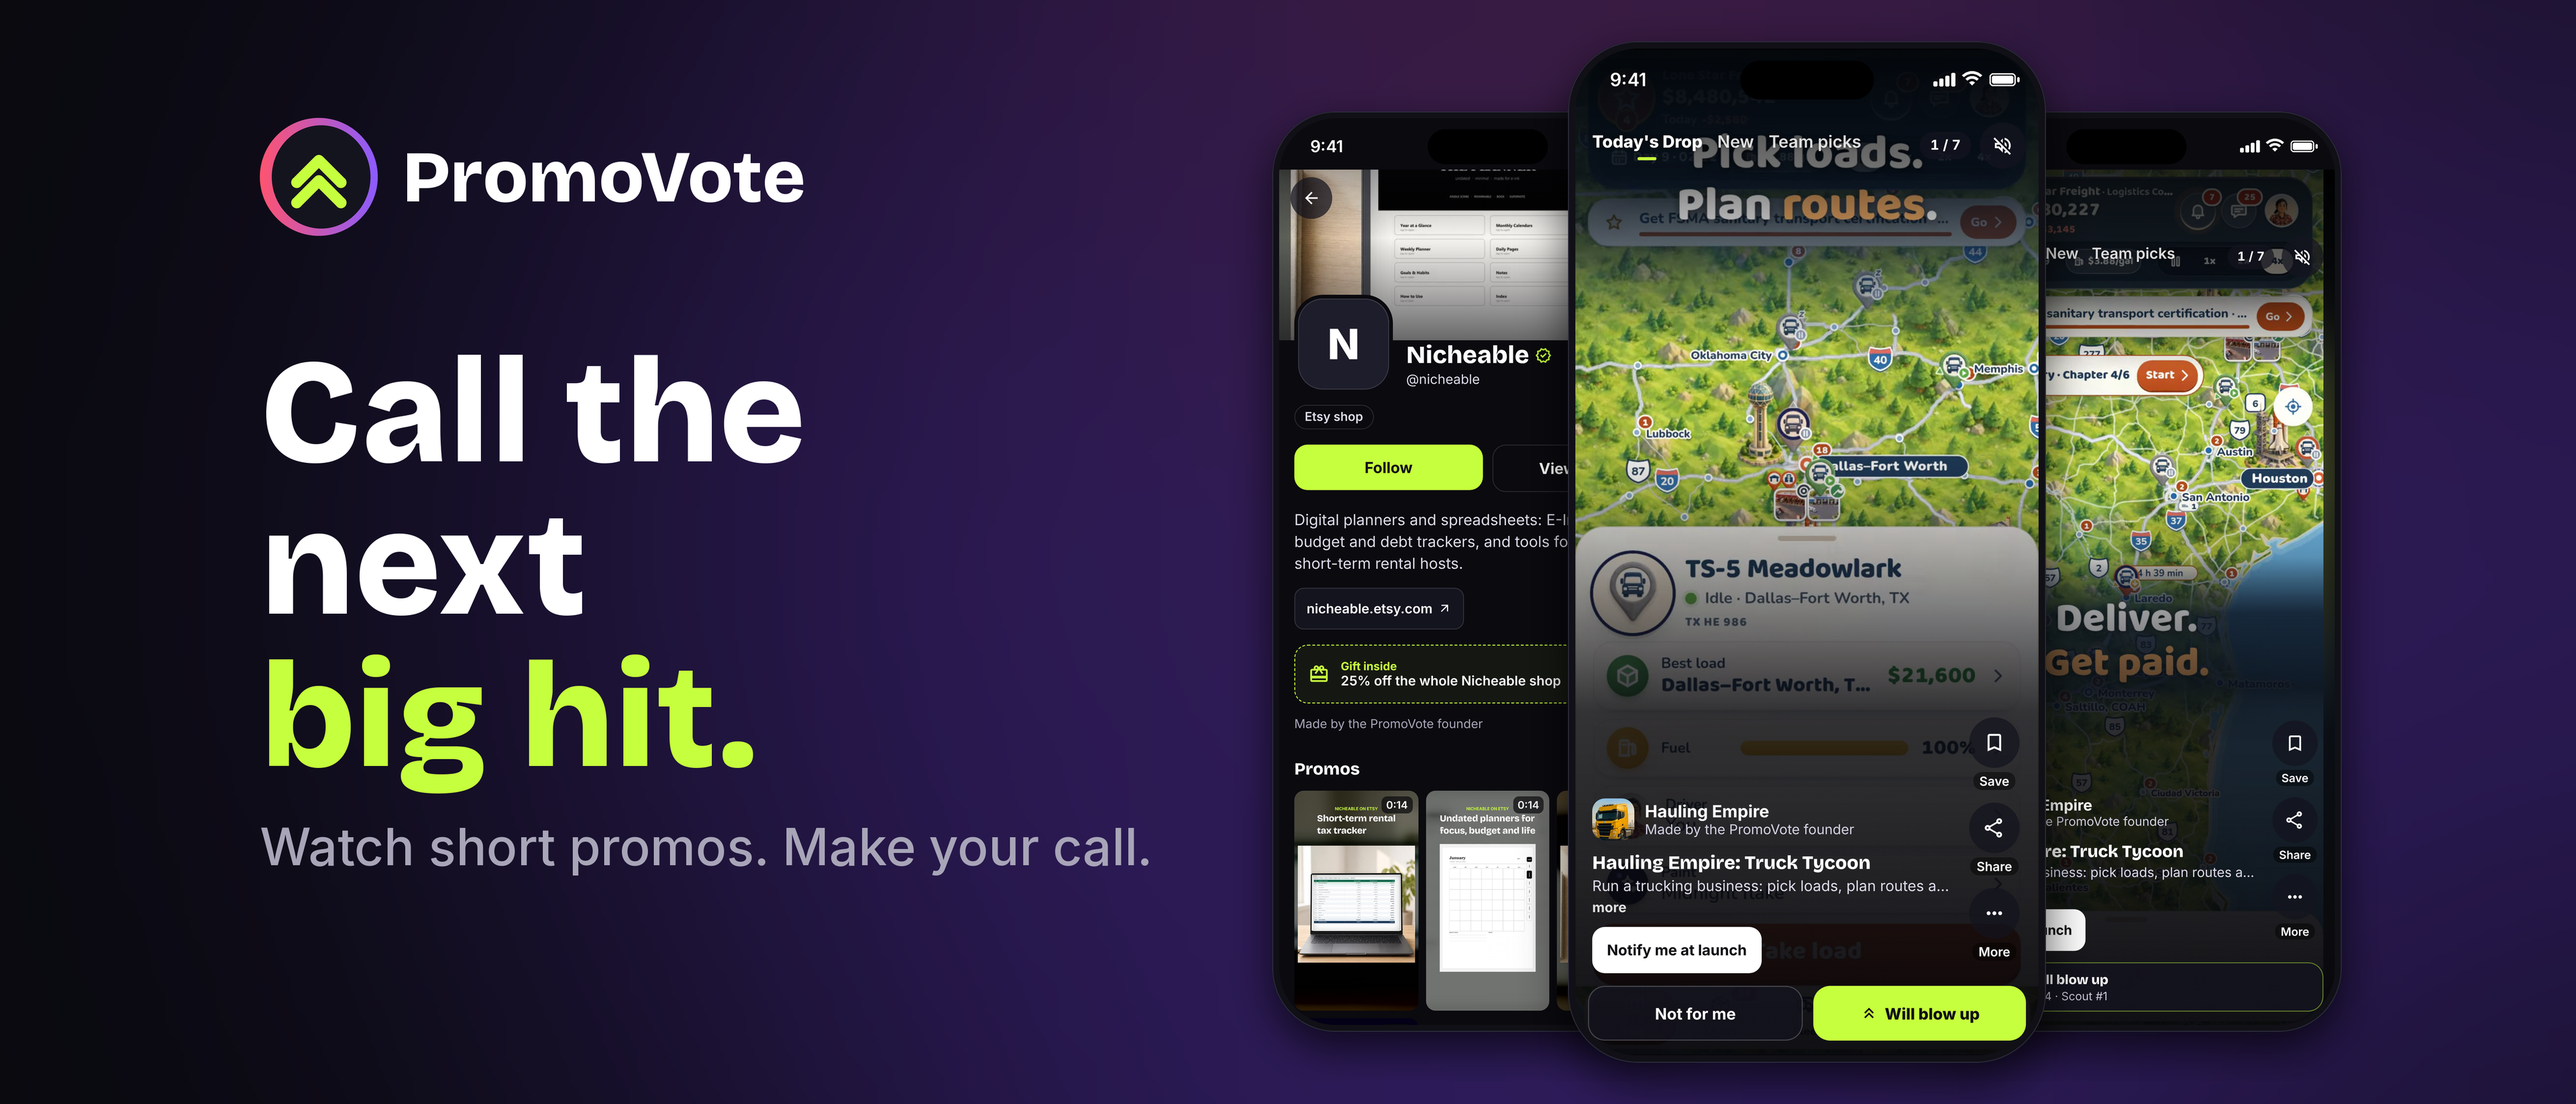
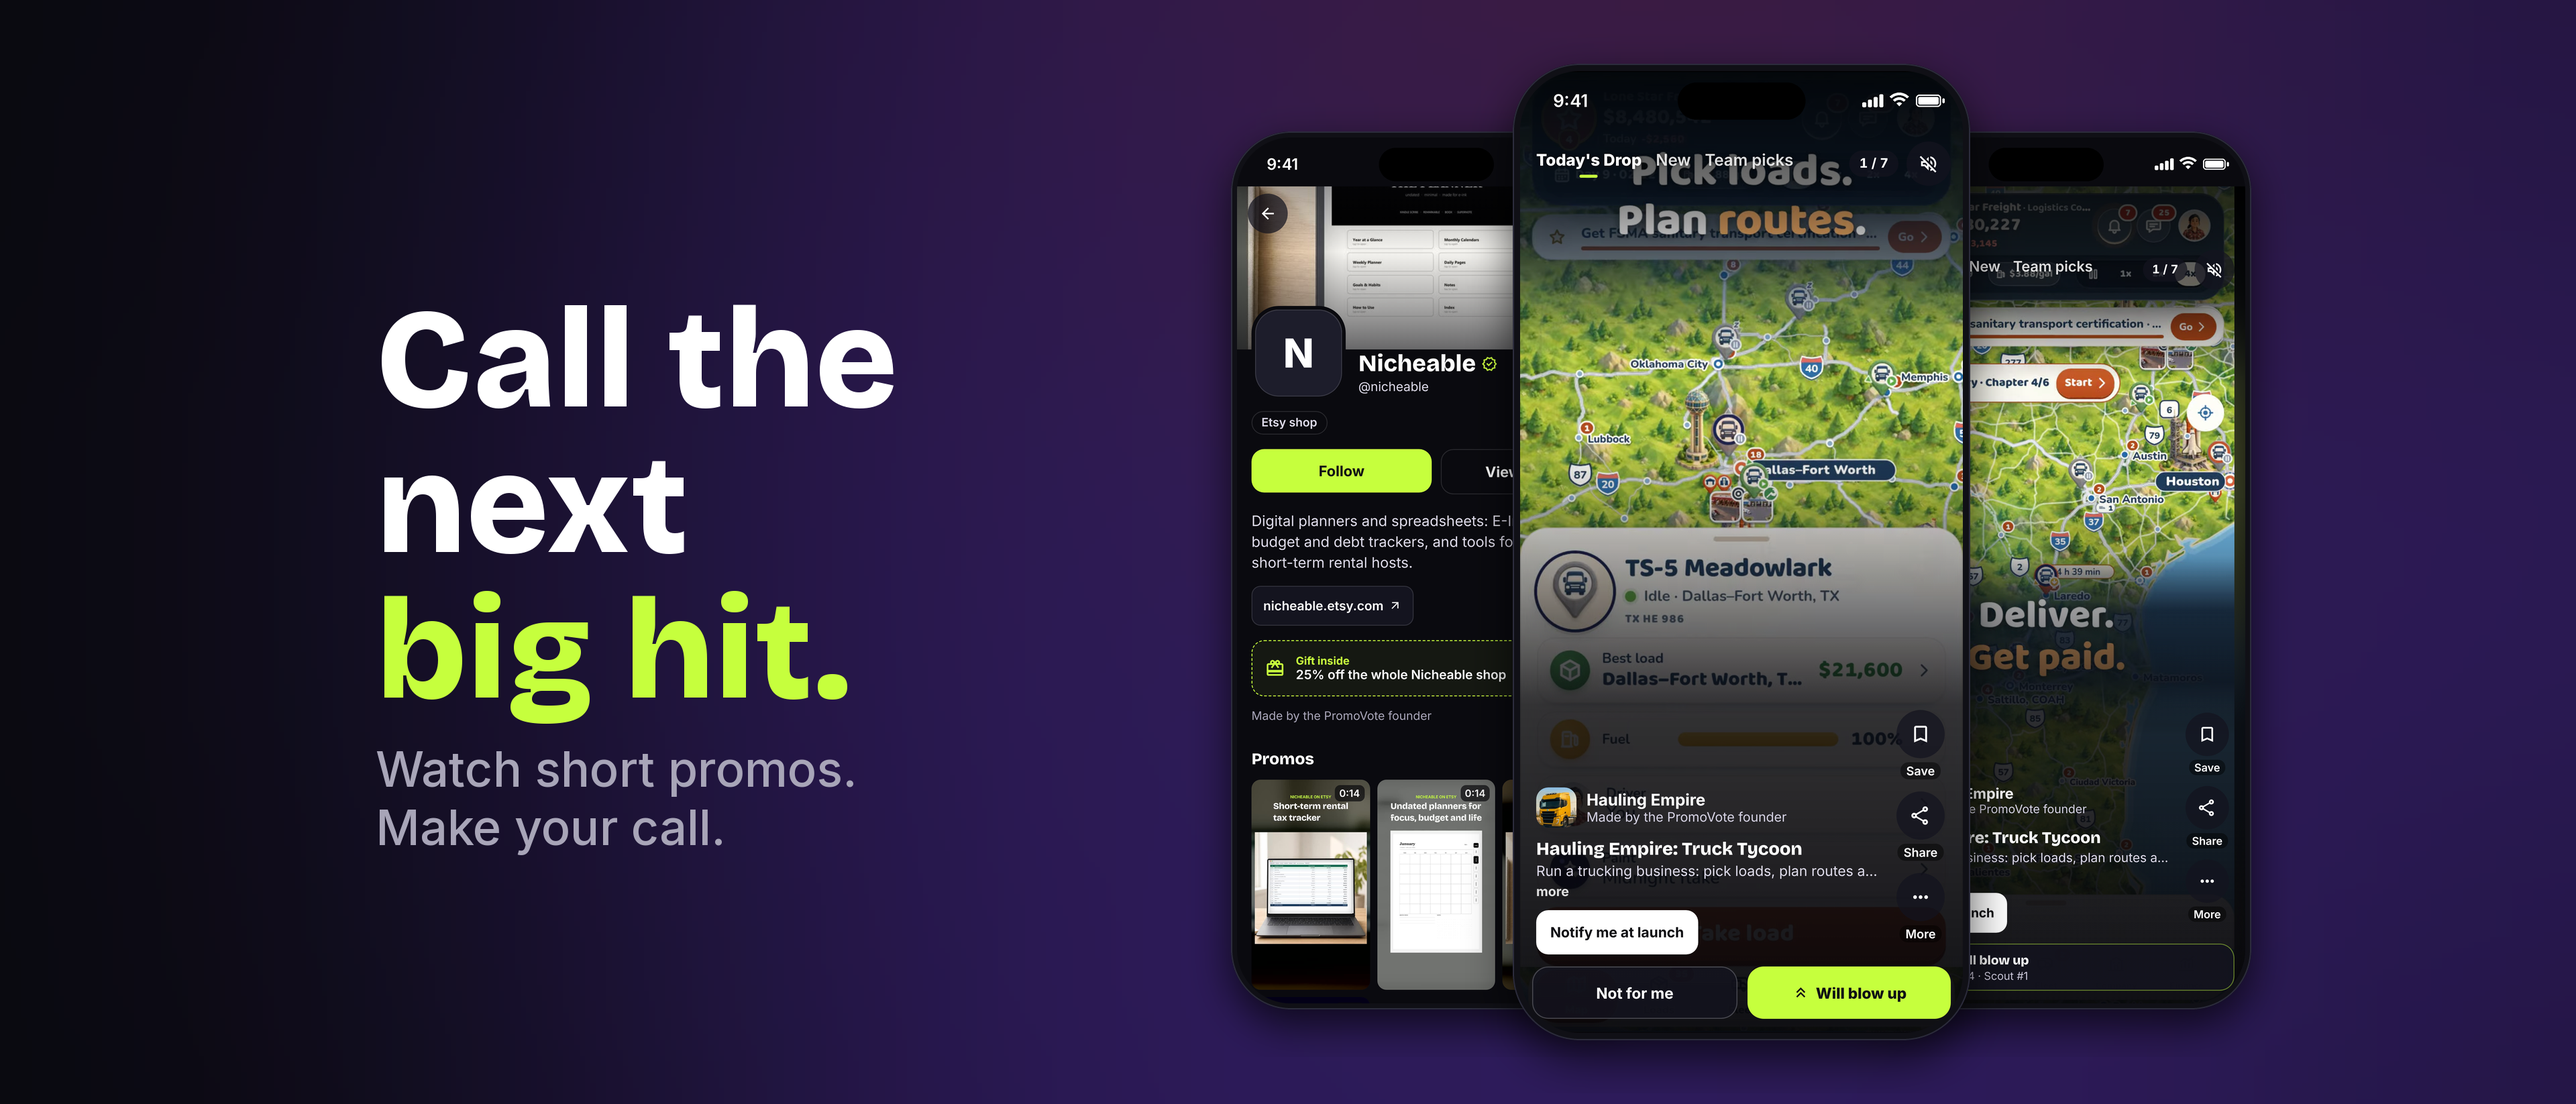
Store: header and search art fitted to the iPhone safe area, upload steps
Claude-Session: https://claude.ai/code/session_01JNLGserTE2mkUjrP4Sn6fo

Changed region(s): [[0.4688, 0.031, 0.9375, 0.9915], [0.0938, 0.2789, 0.4375, 0.8056], [0.0938, 0.093, 0.3125, 0.2169]]

diff --git a/store/tools/compose-store-art.py b/store/tools/compose-store-art.py
@@ -137,54 +137,56 @@ def screenshot(lang, i, W, H):
     im.alpha_composite(ph, (int(W / 2 - ph.width / 2), top - pad))
     return im.convert('RGB')
 
-def header_master():
-    W, H = 5244, 2950
+def header_master(W=5244, H=2950, safe=(4425, 2247), k=1.0, logo=True):
     im = background(W, H, glow_at=(0.62, 0.5), r=0.42).convert('RGBA')
-    sx, sy = (W - 4425) // 2, (H - 2247) // 2  # safe area shared by both crops
+    sx, sy = (W - safe[0]) // 2, (H - safe[1]) // 2  # content box
     d = ImageDraw.Draw(im)
     # logo mark (favicon drawing) + wordmark
-    lx, ly, lr = sx + 120, sy + 360, 120
-    ss = 4; L = Image.new('RGBA', (lr * 2 * ss, lr * 2 * ss), (0, 0, 0, 0)); ld = ImageDraw.Draw(L)
-    grad = Image.new('RGBA', L.size)
-    for x in range(L.width):
-        t = x / L.width; ImageDraw.Draw(grad).line((x, 0, x, L.height), fill=(int(255 + (139 - 255) * t), int(84 + (92 - 84) * t), int(112 + (255 - 112) * t), 255))
-    ring = Image.new('L', L.size, 0); ImageDraw.Draw(ring).ellipse((0, 0, L.width - 1, L.height - 1), fill=255)
-    L.paste(grad, (0, 0), ring)
-    q = lr * ss / 32 * 1.0
-    ImageDraw.Draw(L).ellipse((5 * q * 0.5 * 2 / 2 * 1.0 + 4 * q, 4 * q, L.width - 4 * q, L.height - 4 * q), fill=(20, 20, 31, 255))
-    ld = ImageDraw.Draw(L)
-    for yy in (0, 11):
-        ld.line([(20 * q, (35 + yy) * q), (32 * q, (23 + yy) * q), (44 * q, (35 + yy) * q)], fill=LIME, width=int(6 * q), joint='curve')
-        for px, py in [(20, 35 + yy), (44, 35 + yy)]:
-            ld.ellipse(((px - 3) * q, (py - 3) * q, (px + 3) * q, (py + 3) * q), fill=LIME)
-    L = L.resize((lr * 2, lr * 2), Image.LANCZOS)
-    im.alpha_composite(L, (lx, ly - lr))
-    d.text((lx + lr * 2 + 50, ly), 'PromoVote', font=font('b800', 150), fill=WHITE, anchor='lm')
-    f = font('b800', 300)
-    y = ly + 300
+    lx, ly, lr = sx, sy + int(150 * k), int(120 * k)
+    if logo:
+        ss = 4; L = Image.new('RGBA', (lr * 2 * ss, lr * 2 * ss), (0, 0, 0, 0)); ld = ImageDraw.Draw(L)
+        grad = Image.new('RGBA', L.size)
+        for x in range(L.width):
+            t = x / L.width; ImageDraw.Draw(grad).line((x, 0, x, L.height), fill=(int(255 + (139 - 255) * t), int(84 + (92 - 84) * t), int(112 + (255 - 112) * t), 255))
+        ring = Image.new('L', L.size, 0); ImageDraw.Draw(ring).ellipse((0, 0, L.width - 1, L.height - 1), fill=255)
+        L.paste(grad, (0, 0), ring)
+        q = lr * ss / 32 * 1.0
+        ImageDraw.Draw(L).ellipse((5 * q * 0.5 * 2 / 2 * 1.0 + 4 * q, 4 * q, L.width - 4 * q, L.height - 4 * q), fill=(20, 20, 31, 255))
+        ld = ImageDraw.Draw(L)
+        for yy in (0, 11):
+            ld.line([(20 * q, (35 + yy) * q), (32 * q, (23 + yy) * q), (44 * q, (35 + yy) * q)], fill=LIME, width=int(6 * q), joint='curve')
+            for px, py in [(20, 35 + yy), (44, 35 + yy)]:
+                ld.ellipse(((px - 3) * q, (py - 3) * q, (px + 3) * q, (py + 3) * q), fill=LIME)
+        L = L.resize((lr * 2, lr * 2), Image.LANCZOS)
+        im.alpha_composite(L, (lx, ly - lr))
+        d.text((lx + lr * 2 + 50, ly), 'PromoVote', font=font('b800', int(150 * k)), fill=WHITE, anchor='lm')
+    f = font('b800', int(300 * k))
+    y = ly + int(250 * k) if logo else (H - int(1180 * k)) // 2
     for line, col in [('Call the', WHITE), ('next', WHITE), ('big hit.', LIME)]:
-        d.text((lx, y), line, font=f, fill=col); y += 310
-    d.text((lx, y + 70), 'Watch short promos. Make your call.', font=font('inter500', 104), fill=MUTED)
+        d.text((lx, y), line, font=f, fill=col); y += int(310 * k)
+    for n, sub in enumerate(['Watch short promos.', 'Make your call.']):
+        d.text((lx, y + int(60 * k) + n * int(125 * k)), sub, font=font('inter500', int(104 * k)), fill=MUTED)
     # three phones on the right
     shots = [('en', '5-creator'), ('en', '1-feed'), ('en', '2-ticket')]
-    cxs = [sx + 2950, sx + 3600, sx + 4250]
-    ph_h = 2050
+    R = sx + safe[0]; cxs = [R - int(1300 * k), R - int(650 * k), R]
+    ph_h = int(2050 * k)
     for idx in (0, 2, 1):
         lang, sh = shots[idx]
         pw = int(ph_h * 1320 / 2868 * (1.0 if idx == 1 else 0.9))
         ph, pad = phone(load_screen(lang, sh), pw)
-        cy = H // 2 + (0 if idx == 1 else 40)
-        im.alpha_composite(ph, (int(cxs[idx] - ph.width / 2) - 330, int(cy - ph.height / 2)))
+        cy = H // 2 + (0 if idx == 1 else int(40 * k))
+        im.alpha_composite(ph, (int(cxs[idx] - ph.width / 2) - int(330 * k), int(cy - ph.height / 2)))
     return im.convert('RGB')
 
 if __name__ == '__main__':
-    for lang in COPY:
+    for lang in (COPY if 'screens' in sys.argv else []):
         for i in range(5):
             for kind, (W, H) in {'ios': (1320, 2868), 'play': (1080, 1920)}.items():
                 p = f'{OUT}/screens/{kind}/{lang}'; os.makedirs(p, exist_ok=True)
                 screenshot(lang, i, W, H).save(f'{p}/{i + 1}-{SHOTS[i][2:]}.png', optimize=True)
-    m = header_master(); os.makedirs(f'{OUT}/header', exist_ok=True)
-    m.save(f'{OUT}/header/master-5244x2950.png', optimize=True)
-    m.crop((0, (2950 - 2247) // 2, 5244, (2950 - 2247) // 2 + 2247)).resize((3840, 1646), Image.LANCZOS).save(f'{OUT}/header/header-3840x1646.png', optimize=True)
-    m.crop(((5244 - 4425) // 2, 0, (5244 - 4425) // 2 + 4425, 2950)).resize((3840, 2560), Image.LANCZOS).save(f'{OUT}/header/search-3840x2560.png', optimize=True)
+    os.makedirs(f'{OUT}/header', exist_ok=True)
+    header_master().save(f'{OUT}/header/universal-5244x2950.png', optimize=True)
+    # Header: iPhone shows only about x 330..3530 with round buttons in the top corners, so content stays in x 560..3280.
+    header_master(3840, 1646, (2720, 1300), 0.7, logo=False).save(f'{OUT}/header/header-3840x1646.png', optimize=True)
+    header_master(3840, 2560, (3200, 1900), 0.86).save(f'{OUT}/header/search-3840x2560.png', optimize=True)
     print('done')

diff --git a/store/status.md b/store/status.md
@@ -51,6 +51,8 @@ DURUM: YENİ İŞ VAR. Bölüm G: iOS build 12'yi App Review'a ve Android build 
 
 ## Bulut Claude notları
 
+* 2026-10-07 (gece): HEADER YENİLENDİ, ELLE YÜKLENMELİ (kurucu: "header resmi yok app store da"). API'de alan yok, tarayıcıdan yapılacak. App Store Connect > PromoVote > iOS 1.0 > Product Page Information > "Header and Search Results" sekmesi > Header: store/assets/header/header-3840x1646.png, Search Results: store/assets/header/search-3840x2560.png (PNG, alpha yok). Sürüm incelemede olduğu için alan kilitliyse: Asset Library'den ayrı gönder (Apple: assetler sürümden bağımsız incelenebilir, onaydan sonra Browse Assets > Publish). İncelemeyi geri çekme. Header iPhone'da sadece ortası görünecek şekilde tasarlandı (içerik x 560..3280, üst köşelerde geri/paylaş butonları için boşluk). Yükledikten sonra Preview aracında iPhone görünümünü kontrol et.
+
 * 2026-10-07 (gece): DÜZELTME (bulut Claude, kurucu sordu). App Store Connect > App Information: Secondary category "Games" yanlış, README'deki eski talimat benim hatamdı. "Social Networking" yap. Content Rights: "Yes, contains third-party content" + "I have the necessary rights" seç (UGC platformu, yaş derecesinde de kullanıcı içeriği var dedik, tutarlı olmalı). Alanlar inceleme sırasında kilitliyse incelemeyi geri çekme, status.md'ye yaz ve kurucuya sor.
 
 * 2026-10-07: iOS build 12 TestFlight'a yüklendi ve Apple işlemesi bitti (VALID). Giriş yapmış kullanıcılarda Bugünün seçkisi yükleme simgesinde takılma hatası düzeltildi (build 10 ve 11'de vardı). Build 11 yüklenmedi. Apple incelemesine bu build gönderilmeli.

diff --git a/store/README.md b/store/README.md
@@ -194,7 +194,7 @@ G1. App Store (iOS build 12)
    Keywords: indie games,game trailers,new apps,discover,predict,hits,promos,creators,scout,trends
    Support URL: https://promovote.com/support  Marketing URL: https://promovote.com
    Copyright: 2026 Hazim Okutan
-5. Ürün sayfası header (Apple'ın yeni görsel alanı) ve arama sonucu görseli: bu alanlar App Store Connect'te görünüyorsa store/assets/header/header-3840x1646.png ve store/assets/header/search-3840x2560.png yükle. Alan yoksa veya kabul etmezse atla, gönderimi bekletme, status.md'ye yaz.
+5. Ürün sayfası header ve arama sonucu görseli (API ile yüklenemiyor, tarayıcıdan): Product Page Information > "Header and Search Results" > Header = store/assets/header/header-3840x1646.png, Search Results = store/assets/header/search-3840x2560.png. Sürüm kilitliyse Asset Library üzerinden ayrı gönder. Preview ile iPhone görünümünü kontrol et.
 6. App Review Information: Sign-in required evet, User name review@promovote.com, Password alanını kurucu girer (kodu kimseye yazma). Notes: yukarıdaki APP REVIEW NOTES, aynen. İletişim bilgileri zaten girili.
 7. Version Release: "Manually release this version" (onaydan sonra yayın tarihini kurucu seçer).
 8. "Add for Review" > "Submit to App Review". Sonucu status.md'ye yaz.
